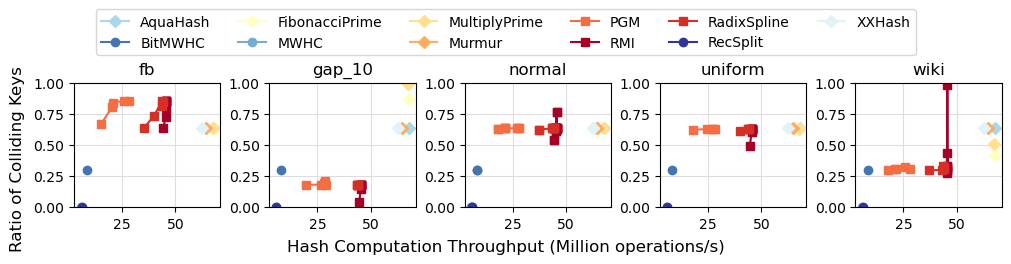
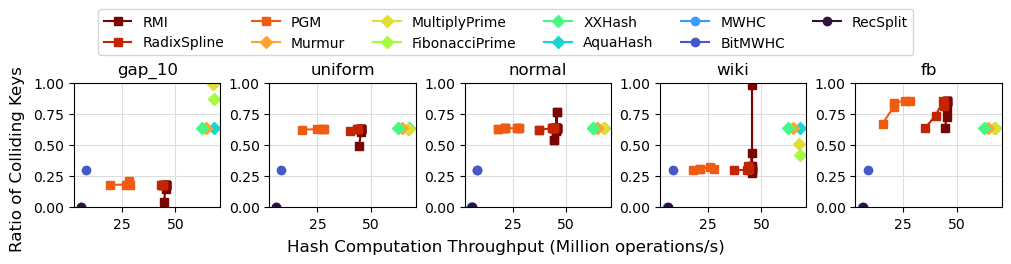
Sort legend

diff --git a/scripts/print_figures.py b/scripts/print_figures.py
@@ -62,6 +62,20 @@ SHAPES_DS = {
     'variance_half': '<',
     'variance_quarter': '>'
 }
+F_MAP = {
+    'RMI': 0,
+    'RadixSpline': 1,
+    'PGM': 2,
+    'Murmur': 3,
+    'MultiplyPrime': 4,
+    'FibonacciPrime': 5,
+    'XXHash': 6,
+    'AquaHash': 7,
+    'MWHC': 8,
+    'BitMWHC': 9,
+    'RecSplit': 10
+}
+    
 COLORS = {}
 COLORS_STRUCT = {}
 
@@ -129,6 +143,11 @@ def prepare_fn_colormap():
 def groupby_helper(df, static_cols, variable_cols):
     return df.groupby(static_cols)[variable_cols].mean().reset_index()
 
+def sort_labels(labels, handles):
+    pairs = list(zip(labels, handles))
+    sorted_pairs = sorted(pairs, key=lambda pair: F_MAP[pair[0]])
+    return zip(*sorted_pairs)
+
 # ===================================================================== #
 
 # ------- collision plot ------- #
@@ -177,8 +196,9 @@ def collisions(df):
         #ax.set_xlim([0, 150])
         ax.grid(True)
     
+    labels, handles = sort_labels(legend_labels, [line for line in fig.axes[0].lines])
     # Add a single legend to the entire figure with labels on the same line
-    lgd = fig.legend(handles=[line for line in fig.axes[0].lines], loc='upper center', labels=legend_labels, ncol=len(legend_labels)//2+len(legend_labels)%2, bbox_to_anchor=(0.5, 1.28))
+    lgd = fig.legend(handles=handles, loc='upper center', labels=labels, ncol=len(legend_labels)//2+len(legend_labels)%2, bbox_to_anchor=(0.5, 1.28))
 
     # Set a common label for x and y axes
     labx = fig.supxlabel('Hash Computation Throughput (Million operations/s)')
@@ -334,8 +354,10 @@ def probe(df):
     axes[CHAINED,0].set_yticks([0,2,4,6,8], ['0','2','4','6','8'])
     axes[LINEAR,0].set_yticks([0,2,4,6,8], ['0','2','4','6','8'])
     axes[CUCKOO,0].set_yticks([0,2,4,6,8], ['0','2','4','6','8'])
+
+    labels, handles = sort_labels(legend_labels, [line for line in fig.axes[0].lines])
     # Add a single legend to the entire figure with labels on the same line
-    lgd = fig.legend(handles=[line for line in fig.axes[0].lines], loc='upper center', labels=legend_labels, ncol=len(legend_labels)//2+len(legend_labels)%2, bbox_to_anchor=(0.5, 1.12))
+    lgd = fig.legend(handles=handles, loc='upper center', labels=labels, ncol=len(legend_labels)//2+len(legend_labels)%2, bbox_to_anchor=(0.5, 1.12))
 
     # Set a common label for x and y axes
     labx = fig.supxlabel('Load Factor (%)')
@@ -416,8 +438,10 @@ def insert(df):
     axes[CHAINED,0].set_yticks([0,2,4,6,8], ['0','2','4','6','8'])
     axes[LINEAR,0].set_yticks([0,2,4,6,8], ['0','2','4','6','8'])
     axes[CUCKOO,0].set_yticks([0,2,4,6,8], ['0','2','4','6','8'])
+
+    labels, handles = sort_labels(legend_labels, [line for line in fig.axes[0].lines])
     # Add a single legend to the entire figure with labels on the same line
-    lgd = fig.legend(handles=[line for line in fig.axes[0].lines], loc='upper center', labels=legend_labels, ncol=len(legend_labels)//2+len(legend_labels)%2, bbox_to_anchor=(0.5, 1.12))
+    lgd = fig.legend(handles=handles, loc='upper center', labels=labels, ncol=len(legend_labels)//2+len(legend_labels)%2, bbox_to_anchor=(0.5, 1.12))
 
     # Set a common label for x and y axes
     labx = fig.supxlabel('Load Factor (%)')
